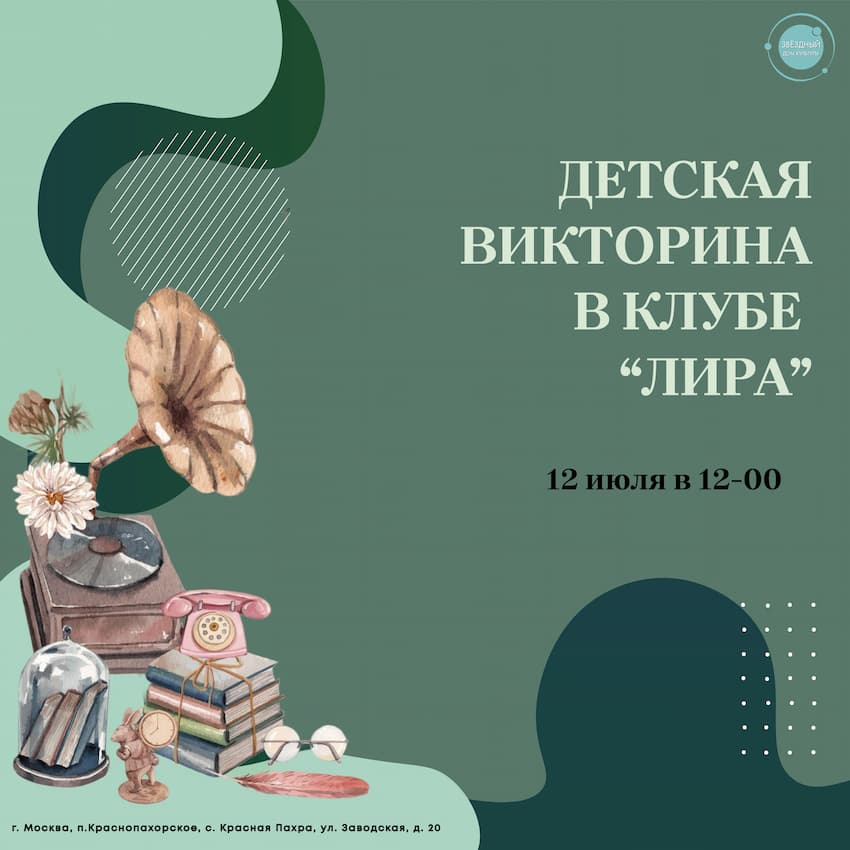
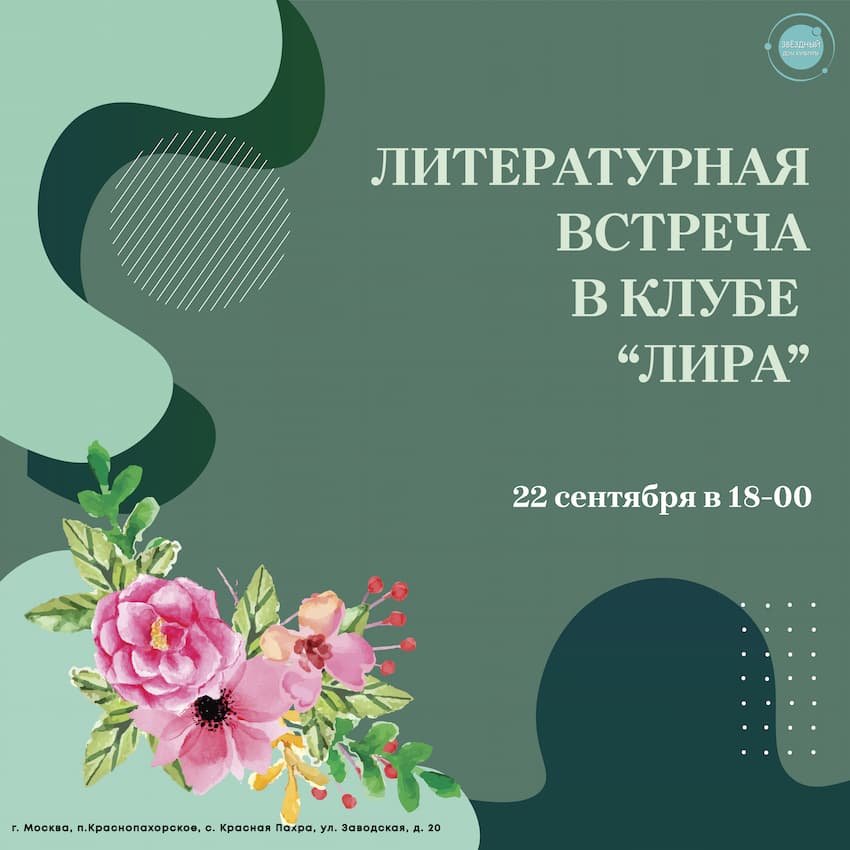
ДЩМУ

Changed region(s): [[0.0, 0.3365, 0.5506, 0.9788], [0.4282, 0.1529, 0.9482, 0.4894], [0.6118, 0.5506, 0.9482, 0.6118]]

diff --git a/src/configurations/clubsPageConfigurations/clubsListsConfig.js b/src/configurations/clubsPageConfigurations/clubsListsConfig.js
@@ -19,7 +19,7 @@ export const earlyDevelopmentClubs = [
         group: 'Группа «Комната сказок»',
         age: 'для детей от 3-х до 7 лет',
         info: 'Невозможно представить мир ребенка без сказки, сказочных образов, атмосферы волшебства, тайны, победы добра над злом. Со сказки начинается его знакомство с миром литературы, с миром человеческих взаимоотношений и со всем окружающим миром в целом. Самое любимое в проведении занятий – это выступление деток на сцене, где ребенок может почувствовать себя настоящими артистом! Занятия способствуют развитию мышления, творческих способностей, памяти, формированию правильного звукопроизношения и артистической смелости, приобщение детей к миру литературы и театрального искусства.',
-        manage: 'Корлева Ольга Александровна',
+        manage: 'Королева Ольга Александровна',
         managePhoto: require('../../assets/images/pesonalPhoto/olga-koroleva.jpg'),
         shedule: 'Понедельник,среда 15:00 - 15:45 (3-5) 16:00 - 16:45 (5-7)',
         code: '1068538',
@@ -110,20 +110,6 @@ export const earlyDevelopmentClubs = [
         place: 'ДК Звёздный',
         price: 'Платный',
         years: '10 - 14'
-    },
-    {
-        id: 10,
-        club: 'Клуб интеллектуального развития "Знайка"',
-        group: 'Группа «Конструирование и моделирование»',
-        age: 'для детей от 4 до 6 лет',
-        info: 'Конструирование и моделирование – продуктивный вид деятельности, ведь его конечной целью является получение осязаемого продукта. Группа имеет технологическую направленность, ориентированную на развитие у ребят первичных технических навыков. Занятия проводятся в форме творческой активности, обеспечивающей художественно – эстетическое развитие деток. Среди материалов, которые будут использоваться на занятии, помимо детского конструктора, будет так же конструирование из бумаги, природного и подручного материала, моделирование плоскостных и объёмных объектов. Если ваш ребёнок грезит роботами или техникой, ему определённо к нам!',
-        manage: 'Шагаева Анастасия Александровна',
-        managePhoto: require('../../assets/images/pesonalPhoto/anastasia-shagaeva.jpg'),
-        shedule: 'Суббота 12:00 – 13:45;',
-        code: '1068580',
-        place: 'ДК Звёздный',
-        price: 'Платный',
-        years: '4 - 6'
     },
     {
         id: 11,
@@ -581,6 +567,20 @@ export const longevityClubs = [
         years: '55 +'
     },
     {
+        id: 1,
+        club: 'Группа «Гимнастика»',
+        group: '',
+        age: 'для лиц старшего поколения от 55+',
+        info: 'ЛФК для лиц старшего поколения – это уникальный гимнастический комплекс для укрепления мышц, суставов и костей, разработанный специально для людей с пониженным физическим тонусом.',
+        manage: 'Матвеева Елена Владимировна',
+        managePhoto: require('../../assets/images/pesonalPhoto/MatveevaElena.jpg'),
+        shedule: 'Среда, пятница 11:00 - 11:45 ДК "Юбилейный"',
+        code: '',
+        place: 'ДК Юбилейный',
+        price: 'Бесплатный',
+        years: '55 +'
+    },
+    {
         id: 4,
         club: 'Группа «Скандинавская ходьба»',
         group:'',
@@ -644,7 +644,7 @@ export const longevityClubs = [
         info: 'Занятия вокалом — это не только творческий, но и оздоровительный процесс. Занятия улучшают кровообращение и насыщение крови кислородом, омолаживают организм, улучшают работу мозга и память, укрепляют мышцы лица, снимают мышечные и психологические зажимы, улучшают вентиляцию бронхов, увеличивают объём легких и благотворно влияют на работу сердца, брюшной полости и других органов. Также пение можно назвать естественным антидепрессантом.',
         manage: 'Коломенский Дмитрий Евгеньевич',
         managePhoto: require('../../assets/images/pesonalPhoto/kolomenskiy.jpg'),
-        shedule: 'Среда 13:00 – 15:00',
+        shedule: 'Вторник 13:00 – 15:00',
         code: '',
         place: 'ДК Звёздный',
         price: 'Бесплатный',
@@ -675,6 +675,20 @@ export const longevityClubs = [
         shedule: 'Вторник,Четверг 12:00 – 12:45',
         code: '',
         place: 'Библиотека села Краснопахорская Пахра',
+        price: 'Бесплатный',
+        years: '55 +'
+    },
+    {
+        id: 10,
+        club: 'Группа «Продвинутый интернет»',
+        group: '',
+        age: 'для лиц старшего поколения от 55+',
+        info: 'Занятия по изучению навыков работы на компьютере и знакомство с основными компьютерными программами и интернет-сервисами',
+        manage: 'Шагаева Анастасия Александровна',
+        managePhoto: require('../../assets/images/pesonalPhoto/anastasia-shagaeva.jpg'),
+        shedule: 'Суббота 09:00 – 11:00',
+        code: '',
+        place: 'ДК Звёздный',
         price: 'Бесплатный',
         years: '55 +'
     },

diff --git a/src/configurations/mainPageConfigurations/newsListConfig.js b/src/configurations/mainPageConfigurations/newsListConfig.js
@@ -1,5 +1,29 @@
 export const newsList = [
   {
+    id: 262,
+    src: require('../../assets/images/mainPageImages/newsImages/news-259.jpg'),
+    title: 'СЕЛЬЧАНКА',
+    description: 'В доме культуры «Юбилейный» села Былово состоялась традиционная встреча в клубе «Сельчанка». Участники клуба собрались дружной семьей за накрытым столом. Они пили чай с домашней выпечкой, читали стихи, пели песни, играли на русских народных инструментах. Жители села отлично провели время и поблагодарили работников культуры за организацию встречи.'
+  },
+  {
+    id: 261,
+    src: require('../../assets/images/mainPageImages/newsImages/news-259.jpg'),
+    title: 'КАША ИЗ ТОПОРА',
+    description: 'В клубе "Эрудит" дома культуры "Звездный" состоялась интеллектуальная игра "Каша из топора". Участники игры живо интересовались подготовленными Львом Красновым и Никитой Давыдовым вопросами о традициях приготовления каши на Руси. «На Руси каша считалась,можно сказать,свящённым блюдом. Даже свадебный пир в то время назывался кашей», - отметил руководитель клуба Никита Давыдов. На встрече дети узнали для себя много нового и интересного.'
+  },
+  {
+    id: 263,
+    src: require('../../assets/images/mainPageImages/newsImages/news-259.jpg'),
+    title: 'КУПЕЧЕСКАЯ ЖИЗНЬ ЗАМОСКВОРЕЧЬЯ',
+    description: 'Театральный сезон в доме культуры «Звездный» открыт! 1 октября в воскресный вечер жители нашего поселения посетили спектакль "Купеческая жизнь Замоскворечья" по мотивам произведений великого русского драматурга Александра Островского. Юные актеры театрального коллектива «Мыслите» под руководством Людмилы Герасимовой покорили публику. «Бурные аплодисменты, переходящие в овации - это главная оценка нашего труда! Мы благодарим зрителей и готовы дальше восхищать их своим актерским талантом», - отметила Людмила Герасимова. Дети настолько перевоплотились в роли, что невозможно было оторвать глаз от их игры. Зрители реагировали на каждый монолог юных актеров: смеялись и грустили , сочувствовали и радовались.    '
+  },
+  {
+    id: 260,
+    src: require('../../assets/images/mainPageImages/newsImages/news-259.jpg'),
+    title: 'ОТКРЫТКА ДЛЯ БАБУЛИ',
+    description: 'Сегодня в доме культуры «Юбилейный» села Былово состоялся мастер-класс «Открытка для бабули». «Для ребенка бабушка всегда ассоциируется с тёплом, нежностью, лаской и любовью. Сегодня дети очень старались,создавая открытки для своих бабушек»,- сказала руководитель кружка «Клубочек» Татьяна Гарифуллина. Наши воспитанники остались довольны и побежали домой к бабушкам дарить свои красивые открытки.'
+  },
+  {
     id: 259,
     src: require('../../assets/images/mainPageImages/newsImages/news-259.jpg'),
     title: 'НА МАСТЕР-КЛАССЕ ТАТЬЯНЫ ГАРИФУЛЛИНОЙ',

diff --git a/src/configurations/eventsPageConfigurations/eventsListConfig.js b/src/configurations/eventsPageConfigurations/eventsListConfig.js
@@ -23,6 +23,61 @@ export const eventsConfig = [
     },
     {
         id: 103,
+        eventDay: 'СБ',
+        eventDayNumber: '23',
+        eventInfoDate: '23 сентября',
+        eventInfoTitle: 'Круглый стол',
+        eventDescription: '23 сентября в 17-00 состоится встреча "Многоликий мир" посвященный международному дню Мира',
+        eventCost: 'ДК "Звездный"',
+        eventImgSrc: require('../../assets/images/eventsImages/Mir-01.jpg'),
+        eventsPreviewImg: require('../../assets/images/eventsImages/eventsPreviewImgs/Mir-02.jpg'),
+    },
+    {
+        id: 103,
+        eventDay: 'СБ',
+        eventDayNumber: '23',
+        eventInfoDate: '23 сентября',
+        eventInfoTitle: 'День села',
+        eventDescription: 'Приглашаем 23 сентября в 12-00 всех на праздник старейшего села Былово.Вас ждут конкурсы,концертная программа, выставки, мастер-классы и много приятных сюрпризов',
+        eventCost: 'ДК "Юбилейный"',
+        eventImgSrc: require('../../assets/images/eventsImages/bulovo-01.jpg'),
+        eventsPreviewImg: require('../../assets/images/eventsImages/eventsPreviewImgs/bulovo-02.jpg'),
+    },
+    {
+        id: 103,
+        eventDay: 'ПТ',
+        eventDayNumber: '22',
+        eventInfoDate: '22 сентября',
+        eventInfoTitle: 'Встреча в клубе "Лира"',
+        eventDescription: '22 сентября в 18-00 состоится литературная встреча в клубе "Лира" приурочена к 140 летию Б.С. Жидкова, ждем заявки на участи до 24 сентября',
+        eventCost: 'ДК "Звездный"',
+        eventImgSrc: require('../../assets/images/eventsImages/lira-01.jpg'),
+        eventsPreviewImg: require('../../assets/images/eventsImages/eventsPreviewImgs/lira-02.jpg'),
+    },
+    {
+        id: 103,
+        eventDay: 'ВТ',
+        eventDayNumber: '19',
+        eventInfoDate: '19 сентября',
+        eventInfoTitle: 'Мастер-класс',
+        eventDescription: '19 сентября состоится мастер-класс в арт студии изобразительного искусства под названием "Придумай свой смайлик"',
+        eventCost: 'ДК "Юбилейный"',
+        eventImgSrc: require('../../assets/images/eventsImages/aut-01.jpg'),
+        eventsPreviewImg: require('../../assets/images/eventsImages/eventsPreviewImgs/aut-02.jpg'),
+    },
+    {
+        id: 103,
+        eventDay: 'ВТ',
+        eventDayNumber: '19',
+        eventInfoDate: '19 сентября',
+        eventInfoTitle: 'Делаем поделку',
+        eventDescription: '19 сентября в 17-00 делаем поделку ко Дню села из осенних цветов и листьев',
+        eventCost: 'ДК "Юбилейный"',
+        eventImgSrc: require('../../assets/images/eventsImages/sma-01.jpg'),
+        eventsPreviewImg: require('../../assets/images/eventsImages/eventsPreviewImgs/sma-02.jpg'),
+    },
+    {
+        id: 103,
         eventDay: 'ВС',
         eventDayNumber: '24',
         eventInfoDate: '24 сентября',
